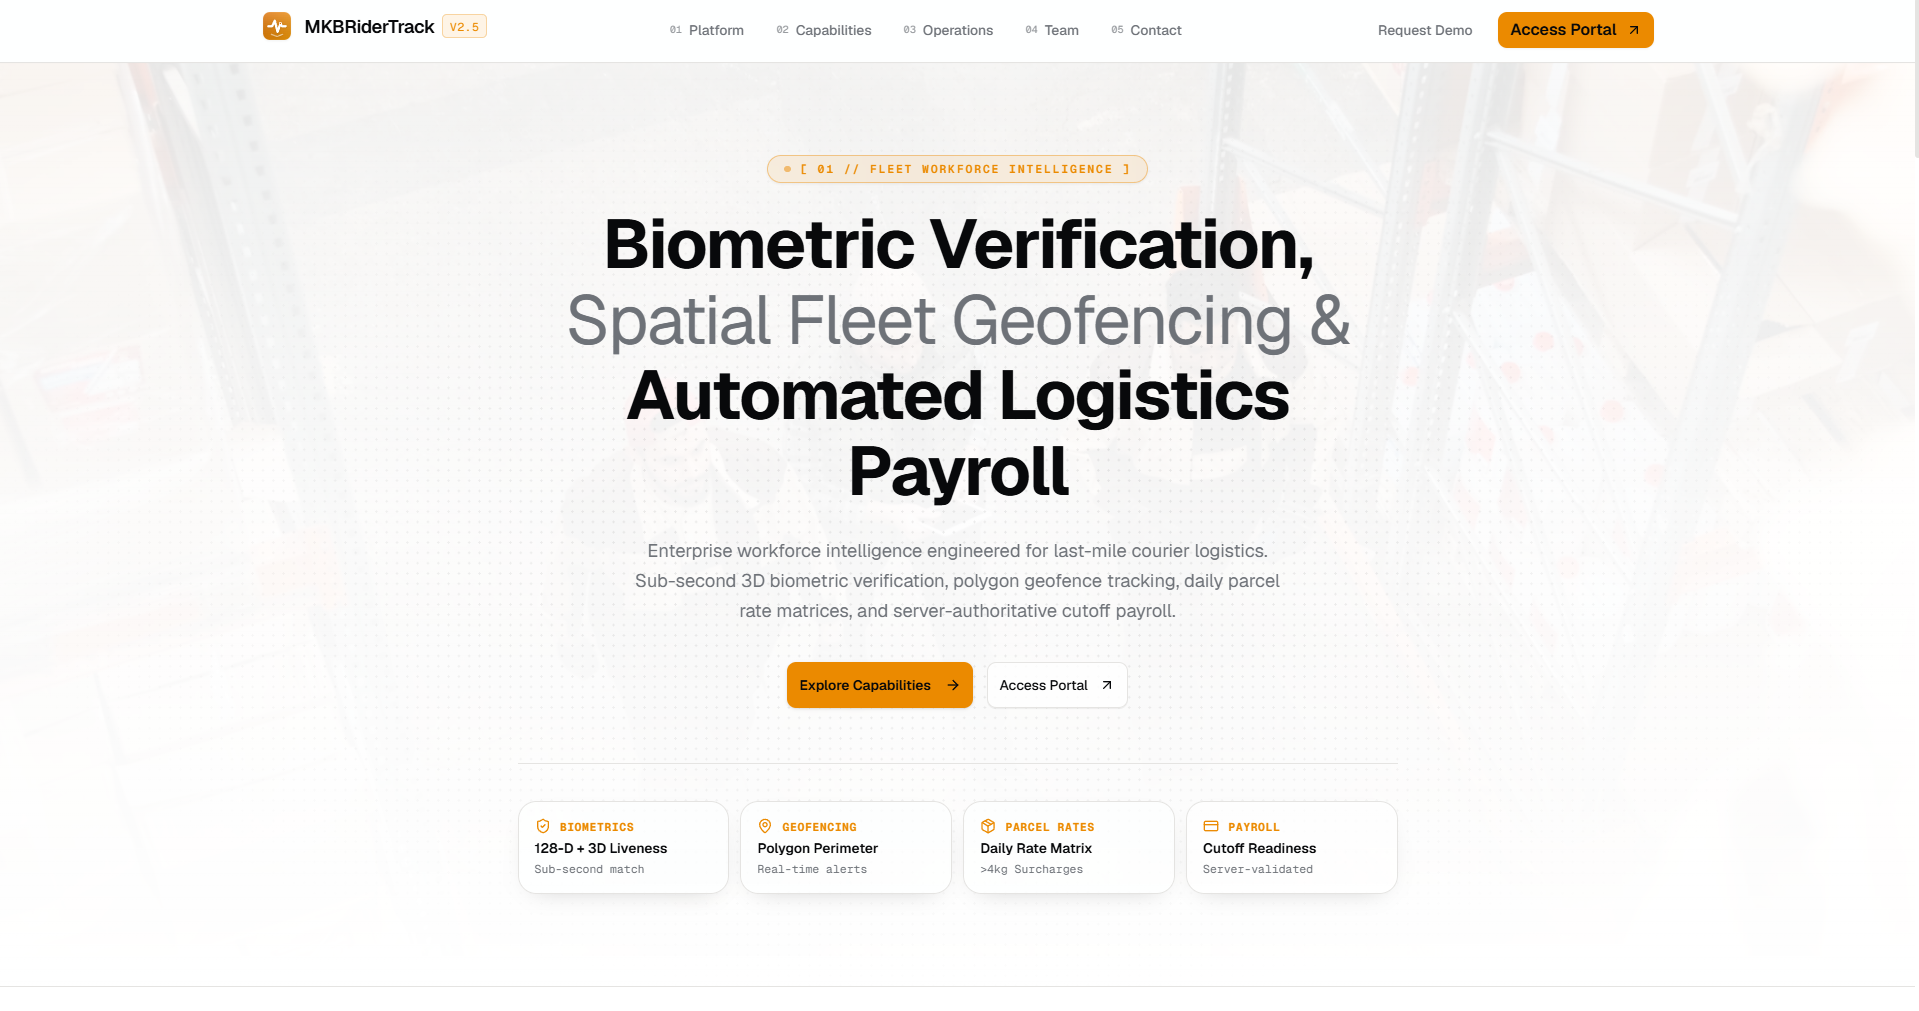
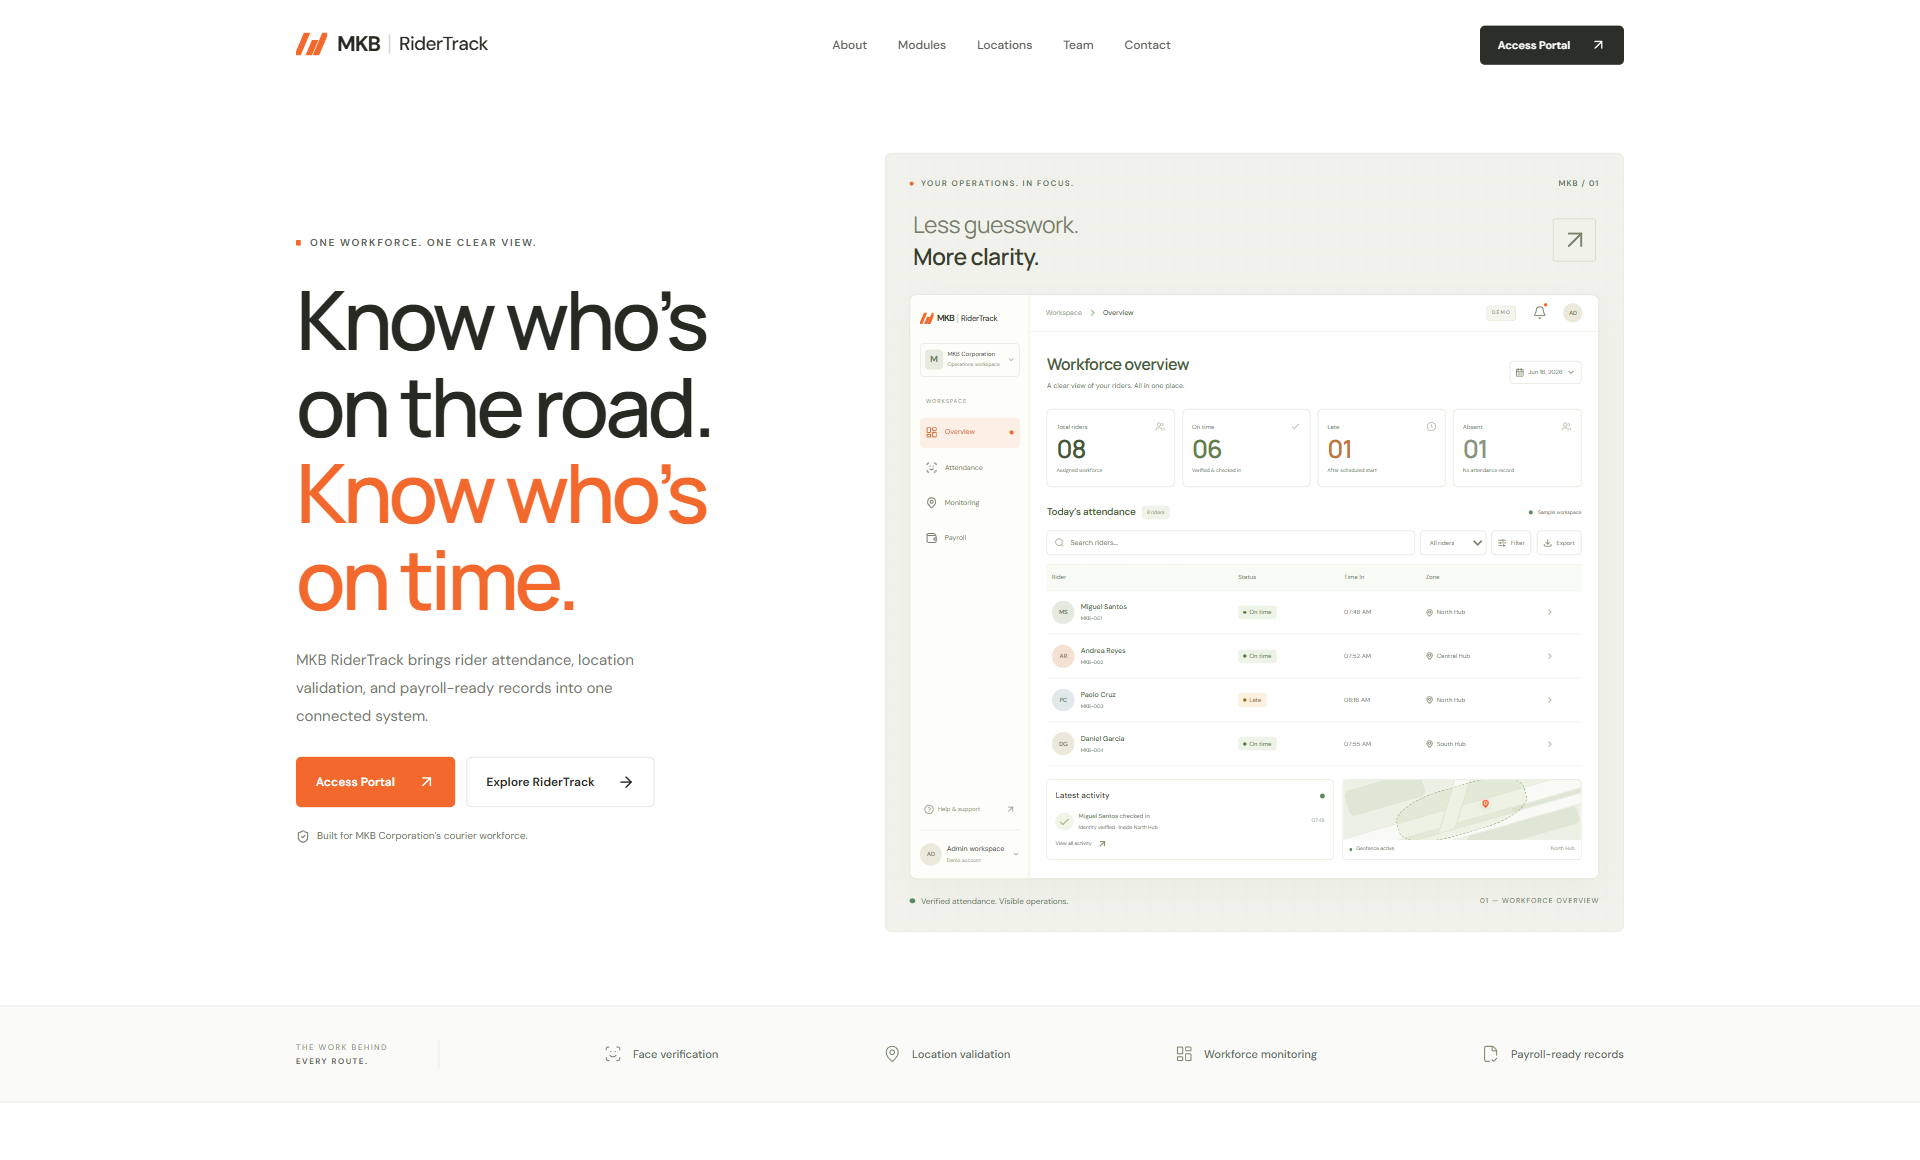
update

diff --git a/src/features/presentation-modes/modes/focus/pages/FocusProjectsPage.tsx b/src/features/presentation-modes/modes/focus/pages/FocusProjectsPage.tsx
@@ -80,7 +80,7 @@ export function FocusProjectsPage() {
                   href={`/projects/${project.slug}`}
                   onMouseEnter={playHover}
                   onClick={playClick}
-                  className="block relative w-full aspect-[16/10] rounded-xl overflow-hidden border border-border-hairline/80 group-hover/img:border-border bg-muted/20 mb-4 transition-colors duration-200 group/img"
+                  className="block relative w-full aspect-video rounded-xl overflow-hidden border border-border-hairline/80 group-hover/img:border-border bg-muted/20 mb-4 transition-colors duration-200 group/img"
                   tabIndex={-1}
                   aria-hidden="true"
                 >
@@ -91,7 +91,7 @@ export function FocusProjectsPage() {
                     sizes="(max-width: 768px) 100vw, 500px"
                     loading={idx < 2 ? "eager" : "lazy"}
                     priority={idx < 2}
-                    className="object-cover object-top transition-[filter,opacity] duration-300 ease-out group-hover/img:brightness-[1.02] dark:group-hover/img:brightness-105"
+                    className="object-cover object-center transition-[filter,opacity] duration-300 ease-out group-hover/img:brightness-[1.02] dark:group-hover/img:brightness-105"
                   />
                 </Link>
 

diff --git a/src/features/presentation-modes/modes/focus/components/FocusSelectedWork.tsx b/src/features/presentation-modes/modes/focus/components/FocusSelectedWork.tsx
@@ -48,7 +48,7 @@ export function FocusSelectedWork() {
               >
                 <Link
                   href={`/projects/${project.slug}`}
-                  className="block relative w-full aspect-[16/10] rounded-xl overflow-hidden border border-border-hairline group-hover/img:border-border bg-surface/50 dark:bg-surface/30 shadow-xs transition-colors duration-200 group/img"
+                  className="block relative w-full aspect-video rounded-xl overflow-hidden border border-border-hairline group-hover/img:border-border bg-surface/50 dark:bg-surface/30 shadow-xs transition-colors duration-200 group/img"
                   tabIndex={-1}
                   aria-hidden="true"
                 >
@@ -58,7 +58,7 @@ export function FocusSelectedWork() {
                     fill
                     sizes="(max-width: 1024px) 100vw, 520px"
                     loading="lazy"
-                    className="object-cover object-top transition-[filter,opacity] duration-300 ease-out group-hover/img:brightness-[1.02] dark:group-hover/img:brightness-105"
+                    className="object-cover object-center transition-[filter,opacity] duration-300 ease-out group-hover/img:brightness-[1.02] dark:group-hover/img:brightness-105"
                   />
                 </Link>
               </div>

diff --git a/src/features/presentation-modes/modes/minimal/components/MinimalActionPreview.tsx b/src/features/presentation-modes/modes/minimal/components/MinimalActionPreview.tsx
@@ -204,14 +204,14 @@ export function MinimalProjectActions({ project }: MinimalProjectActionsProps) {
                 </div>
 
                 {/* Screenshot frame */}
-                <div className="relative w-full aspect-[16/10] overflow-hidden rounded-md border border-zinc-200/80 dark:border-white/10 bg-zinc-100 dark:bg-zinc-900/80">
+                <div className="relative w-full aspect-video overflow-hidden rounded-md border border-zinc-200/80 dark:border-white/10 bg-zinc-100 dark:bg-zinc-900/80">
                   {hasLiveInteracted && project.image && (
                     <Image
                       src={project.image}
                       alt={project.title}
                       fill
                       sizes="(max-width: 640px) 290px, 320px"
-                      className="object-cover object-top"
+                      className="object-cover object-center"
                     />
                   )}
                 </div>

diff --git a/src/features/presentation-modes/modes/artisan/ProjectsSection.tsx b/src/features/presentation-modes/modes/artisan/ProjectsSection.tsx
@@ -274,13 +274,13 @@ export function ProjectsSection() {
                 </div>
 
                 {/* Primary Preview Screenshot */}
-                <div className="relative w-full aspect-[16/10] rounded-xl sm:rounded-2xl overflow-hidden border border-black/10 dark:border-white/10 bg-muted/40">
+                <div className="relative w-full aspect-video rounded-xl sm:rounded-2xl overflow-hidden border border-black/10 dark:border-white/10 bg-muted/40">
                   <Image
                     src={activeImage || selectedProject.image}
                     alt={selectedProject.title}
                     fill
                     sizes="(max-width: 768px) 100vw, 800px"
-                    className="object-cover object-top"
+                    className="object-cover object-center"
                   />
                 </div>
 

diff --git a/src/lib/deterministicResponder.ts b/src/lib/deterministicResponder.ts
@@ -456,7 +456,7 @@ Both systems employ custom Row Level Security (RLS) policies to prevent unauthor
 
 3. **[MovieStream (PhierPlay)](/projects/moviestream)** (2025, Active)
    Modern video streaming web application with TMDB API integration, dynamic search, watchlist persistence, and responsive media streaming.
-   [Open Project](/projects/moviestream) · [Live Demo](https://phierplay.vercel.app)
+   [Open Project](/projects/moviestream) · [Live Demo](https://phierplay.pages.dev/)
 
 4. **[Naphix Resume Builder](/projects/naphix-resume)** (2026, Active)
    Modular real-time resume creator with drag-and-drop section reordering (@dnd-kit) and instant client-side PDF and Word export.

diff --git a/src/lib/data.ts b/src/lib/data.ts
@@ -363,7 +363,7 @@ export const fullProjects: FullProjectItem[] = [
           "Progressive poster placeholders and lazy poster image loading kept the initial viewport payload minimal even when browsing extensive genre catalogs.",
       },
     ],
-    live: "https://phierplay.vercel.app/",
+    live: "https://phierplay.pages.dev/",
     status: "live",
     featured: true,
     focusHighlight: "Fast, beautiful, and built for movie lovers.",

diff --git a/src/lib/chatOutputGuard.ts b/src/lib/chatOutputGuard.ts
@@ -98,10 +98,11 @@ export function inspectGeneratedOutput(generatedText: string): OutputGuardResult
       "linkedin.com",
       "vercel.app",
       "netlify.app",
+      "pages.dev",
       "assetlink-supabase-landing.vercel.app",
       "mkbridertrack.vercel.app",
       "naphix-resume.netlify.app",
-      "phierplay.vercel.app",
+      "phierplay.pages.dev",
       "naphier.tech",
       "localhost",
     ];

diff --git a/src/components/ui/macbook-pro.tsx b/src/components/ui/macbook-pro.tsx
@@ -54,7 +54,7 @@ export function MacbookPro({
           y="21.32"
           width="501.22"
           height="323.85"
-          preserveAspectRatio="xMidYMin slice"
+          preserveAspectRatio="none"
           clipPath={`url(#${clipPathId})`}
         />
       )}
